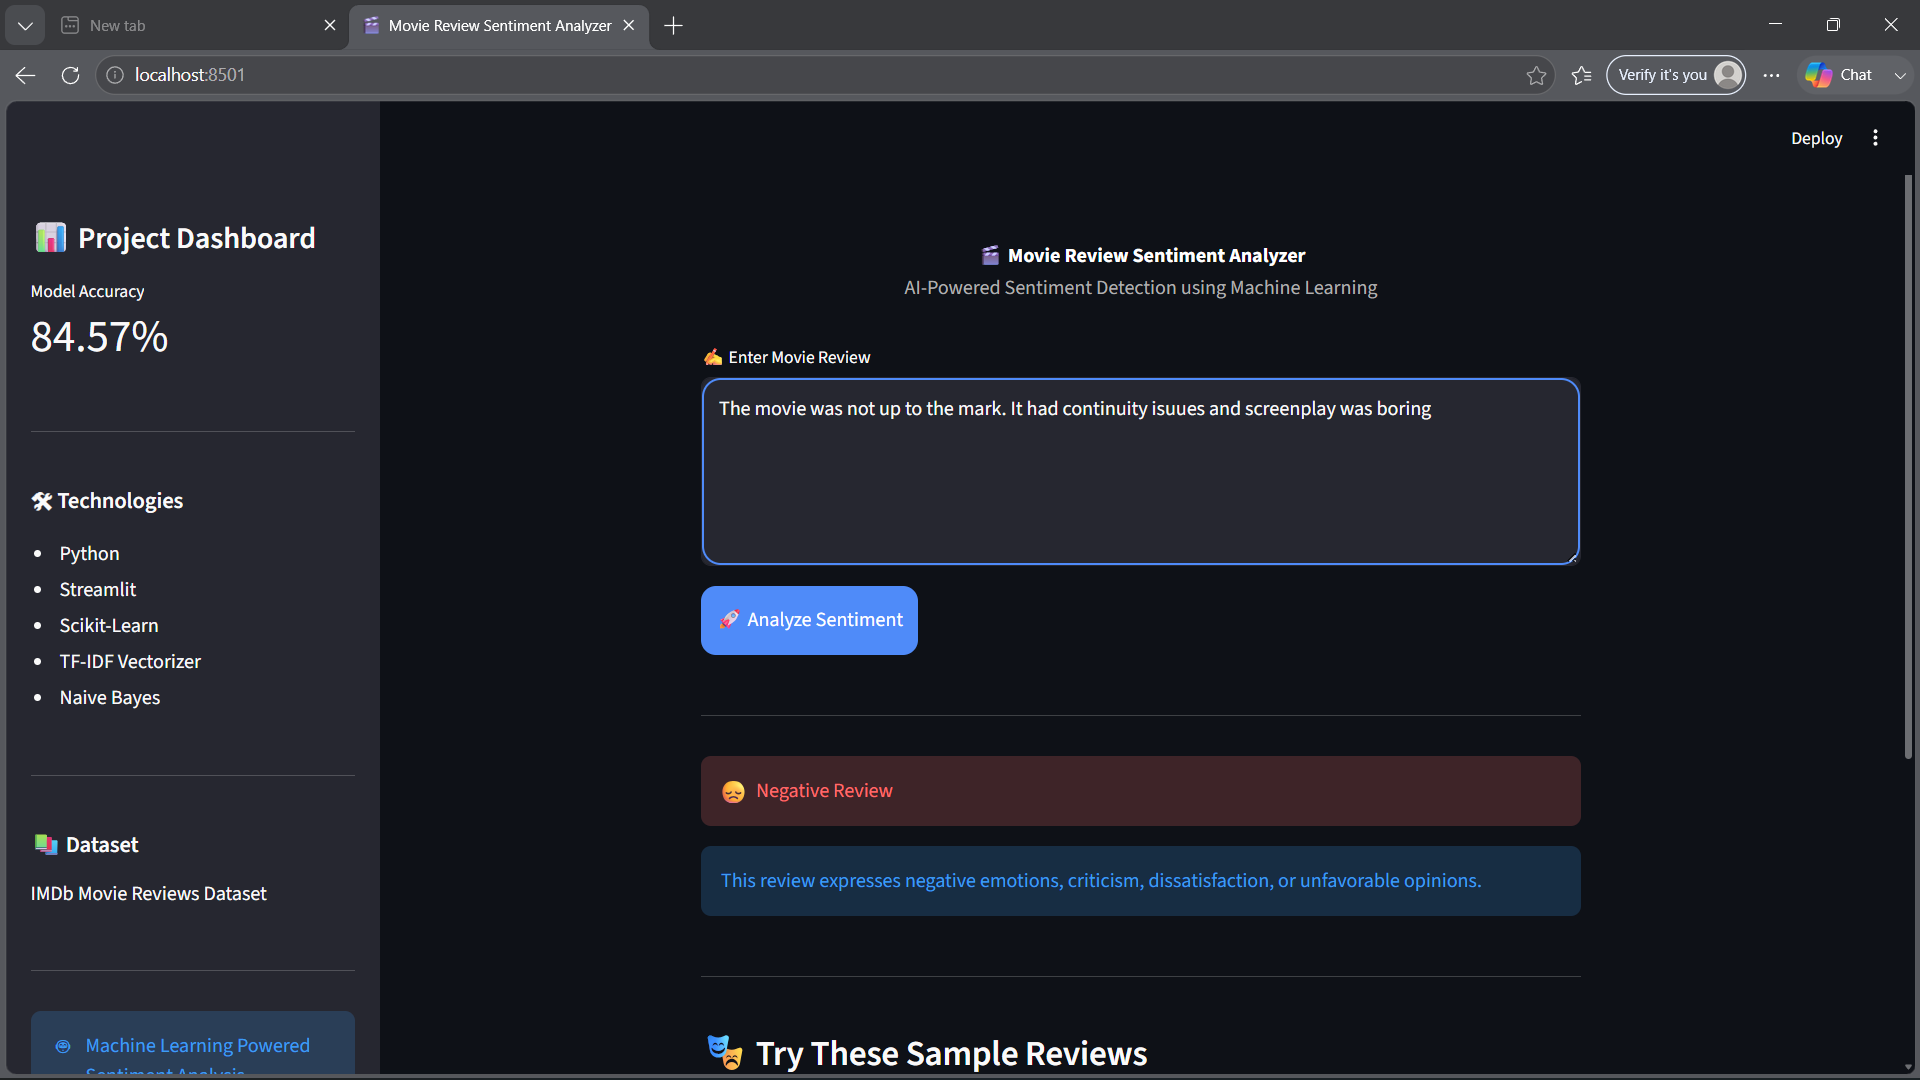
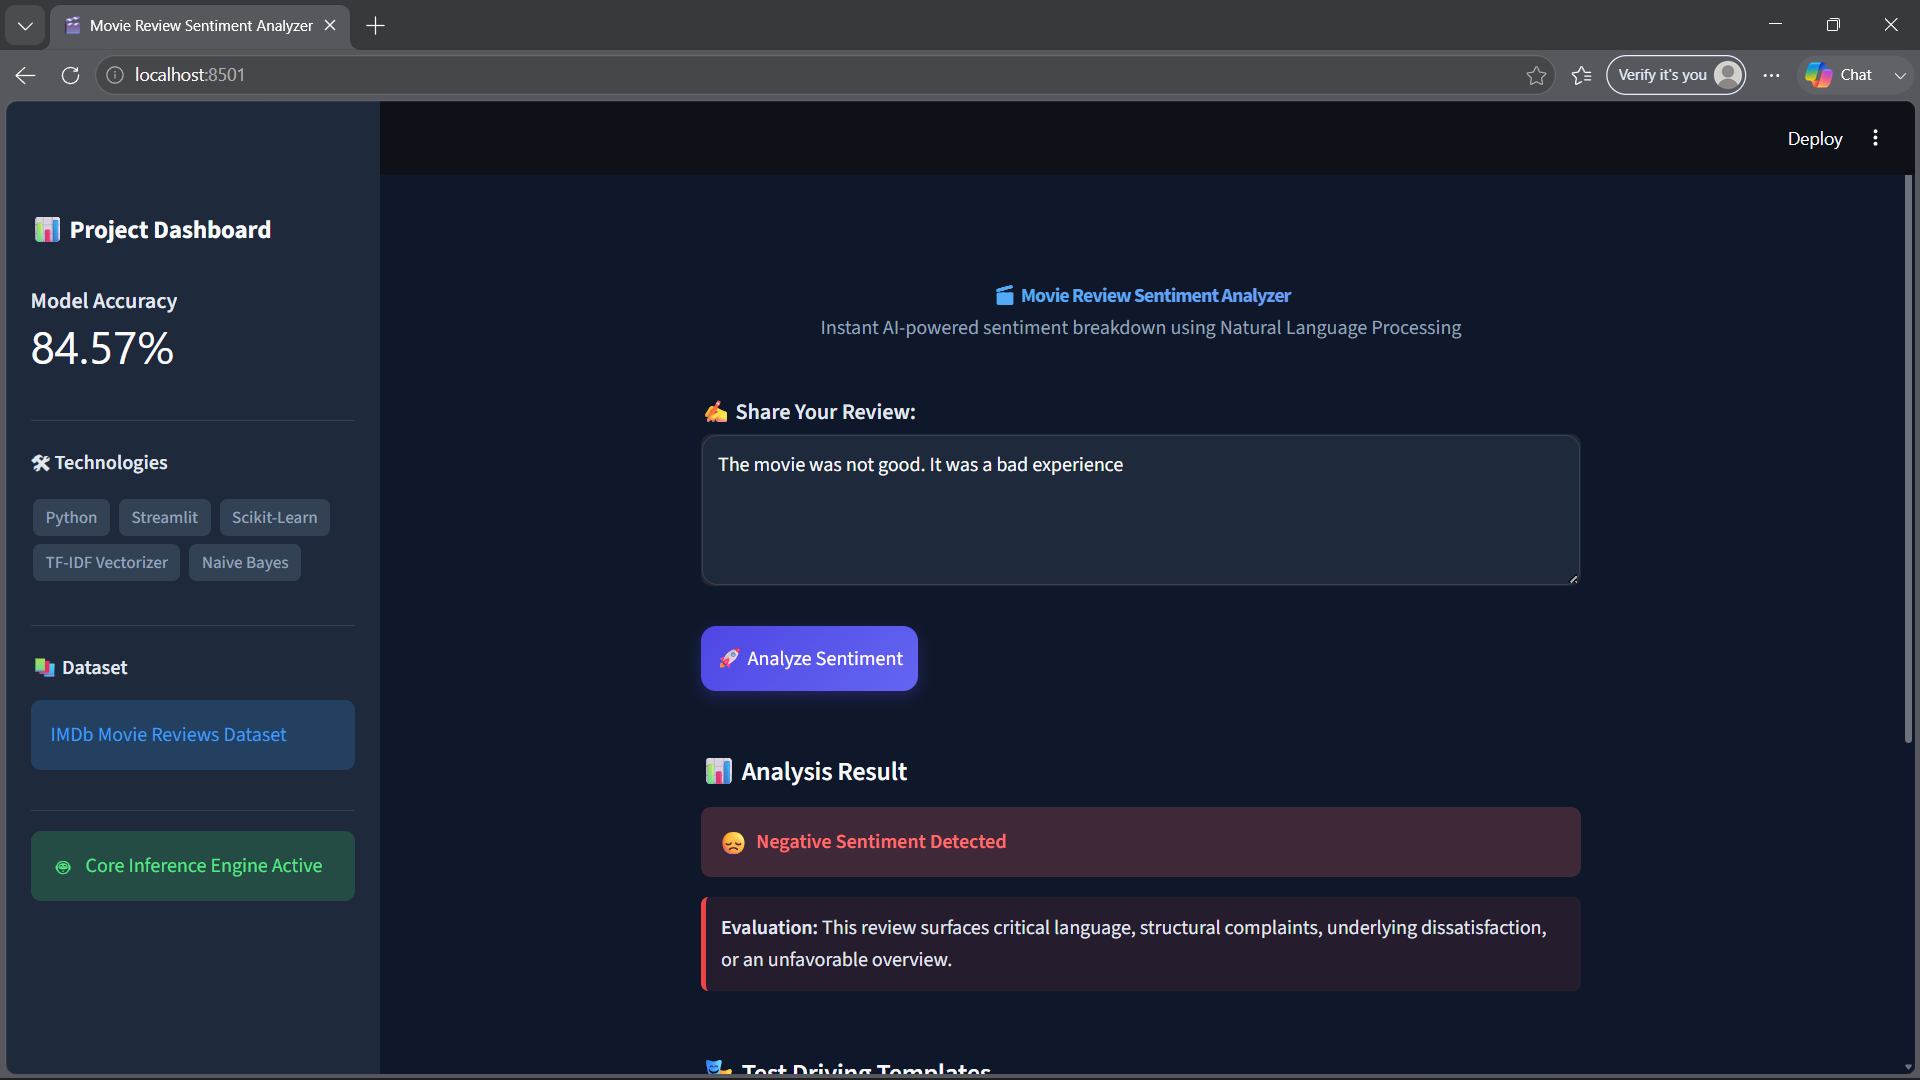
Updated UI

diff --git a/Task2/app.py b/Task2/app.py
@@ -11,58 +11,125 @@ st.set_page_config(
 )
 
 # =========================
-# CUSTOM CSS
+# ADVANCED CUSTOM CSS
 # =========================
 st.markdown("""
 <style>
-
+/* Main App Styling */
 .stApp {
-    background-color: #0E1117;
+    background-color: #0F172A; /* Slate 900 */
+    font-family: 'Inter', system-ui, sans-serif;
 }
 
-.title {
+/* Header Sections */
+.title-container {
     text-align: center;
-    font-size: 3.5rem;
-    font-weight: bold;
-    color: white;
+    padding: 2rem 0 0.5rem 0;
+}
+
+.title-text {
+    font-size: 2.8rem;
+    font-weight: 800;
+    background: linear-gradient(135deg, #38BDF8, #818CF8);
+    -webkit-background-clip: text;
+    -webkit-text-fill-color: transparent;
     margin-bottom: 0px;
+    letter-spacing: -0.05em;
 }
 
-.subtitle {
-    text-align: center;
-    color: #B0B0B0;
+.subtitle-text {
+    color: #94A3B8; /* Slate 400 */
     font-size: 1.1rem;
-    margin-bottom: 30px;
+    font-weight: 400;
+    margin-top: 5px;
+    margin-bottom: 2rem;
+}
+
+/* Form Inputs & Textarea Labels */
+label p {
+    font-size: 1.1rem !important;
+    font-weight: 600 !important;
+    color: #E2E8F0 !important;
 }
 
 .stTextArea textarea {
-    border-radius: 15px !important;
-    border: 2px solid #4F8BF9 !important;
+    border-radius: 12px !important;
+    border: 1px solid #334155 !important;
+    background-color: #1E293B !important;
+    color: #F8FAFC !important;
     font-size: 16px !important;
+    transition: all 0.3s ease;
 }
 
-.stButton > button {
-    width: 100%;
-    height: 55px;
+.stTextArea textarea:focus {
+    border-color: #6366F1 !important;
+    box-shadow: 0 0 0 3px rgba(99, 102, 241, 0.2) !important;
+}
+
+/* Modernized Primary Button */
+div.stButton > button {
+    width: 100% !important;
+    height: 52px;
     border-radius: 12px;
-    background-color: #4F8BF9;
-    color: white;
-    font-size: 18px;
-    font-weight: bold;
-    border: none;
+    background: linear-gradient(135deg, #4F46E5, #6366F1);
+    color: white !important;
+    font-size: 18px !important;
+    font-weight: 600 !important;
+    border: none !important;
+    box-shadow: 0 4px 12px rgba(79, 70, 229, 0.3);
+    transition: all 0.2s ease-in-out;
 }
 
-.stButton > button:hover {
-    background-color: #2E6EF7;
-    color: white;
+div.stButton > button:hover {
+    transform: translateY(-1px);
+    box-shadow: 0 6px 20px rgba(79, 70, 229, 0.4);
+    background: linear-gradient(135deg, #4338CA, #4F46E5);
 }
 
-.footer {
+div.stButton > button:active {
+    transform: translateY(1px);
+}
+
+/* Custom Sample Review Cards */
+.sample-card {
+    background-color: #1E293B;
+    border-left: 5px solid #64748B;
+    padding: 1.25rem;
+    border-radius: 8px;
+    color: #E2E8F0;
+    font-size: 0.95rem;
+    line-height: 1.5;
+    min-height: 90px;
+    display: flex;
+    align-items: center;
+}
+.pos-card { border-left-color: #10B981; background-color: rgba(16, 185, 129, 0.08); }
+.neg-card { border-left-color: #EF4444; background-color: rgba(239, 68, 68, 0.08); }
+
+/* Sidebar styling overrides */
+section[data-testid="stSidebar"] {
+    background-color: #1E293B !important;
+}
+
+.tech-badge {
+    display: inline-block;
+    background-color: #334155;
+    color: #94A3B8;
+    padding: 4px 10px;
+    border-radius: 6px;
+    margin: 3px 2px;
+    font-size: 0.85rem;
+    font-weight: 500;
+}
+
+.footer-text {
     text-align: center;
-    color: gray;
-    margin-top: 20px;
+    color: #64748B;
+    font-size: 0.85rem;
+    margin-top: 3rem;
+    border-top: 1px solid #334155;
+    padding-top: 1.5rem;
 }
-
 </style>
 """, unsafe_allow_html=True)
 
@@ -73,126 +140,115 @@ try:
     model = pickle.load(open("model/sentiment_model.pkl", "rb"))
     vectorizer = pickle.load(open("model/vectorizer.pkl", "rb"))
 except:
-    st.error("❌ Model files not found.")
+    st.error("❌ Model files not found. Ensure paths for your pkl files are correct.")
     st.stop()
 
 # =========================
 # SIDEBAR
 # =========================
 with st.sidebar:
-
-    st.title("📊 Project Dashboard")
-
+    st.markdown("<h2 style='color:#F8FAFC; font-weight:700; margin-bottom:0;'>📊 Project Dashboard</h2>", unsafe_allow_html=True)
+    st.write("")
+    
     st.metric(
         label="Model Accuracy",
         value="84.57%"
     )
-
-    st.markdown("---")
-
-    st.subheader("🛠 Technologies")
-
+    
+    st.markdown("<hr style='margin:1rem 0; border-color:#334155;'>", unsafe_allow_html=True)
+    st.markdown("<h4 style='color:#E2E8F0;'>🛠 Technologies</h4>", unsafe_allow_html=True)
+    
+    # Render modern visual badges instead of standard bullet points
     st.markdown("""
-    - Python
-    - Streamlit
-    - Scikit-Learn
-    - TF-IDF Vectorizer
-    - Naive Bayes
-    """)
-
-    st.markdown("---")
-
-    st.subheader("📚 Dataset")
-
-    st.write("IMDb Movie Reviews Dataset")
-
-    st.markdown("---")
-
-    st.info("🤖 Machine Learning Powered Sentiment Analysis")
+    <span class="tech-badge">Python</span>
+    <span class="tech-badge">Streamlit</span>
+    <span class="tech-badge">Scikit-Learn</span>
+    <span class="tech-badge">TF-IDF Vectorizer</span>
+    <span class="tech-badge">Naive Bayes</span>
+    """, unsafe_allow_html=True)
+    
+    st.markdown("<hr style='margin:1rem 0; border-color:#334155;'>", unsafe_allow_html=True)
+    st.markdown("<h4 style='color:#E2E8F0;'>📚 Dataset</h4>", unsafe_allow_html=True)
+    st.info("IMDb Movie Reviews Dataset")
+    
+    st.markdown("<hr style='margin:1rem 0; border-color:#334155;'>", unsafe_allow_html=True)
+    st.success("🤖 Core Inference Engine Active")
 
 # =========================
 # HEADER
 # =========================
-st.markdown(
-    '<p class="title">🎬 Movie Review Sentiment Analyzer</p>',
-    unsafe_allow_html=True
-)
-
-st.markdown(
-    '<p class="subtitle">AI-Powered Sentiment Detection using Machine Learning</p>',
-    unsafe_allow_html=True
-)
+st.markdown("""
+<div class="title-container">
+    <p class="title-text">🎬 Movie Review Sentiment Analyzer</p>
+    <p class="subtitle-text">Instant AI-powered sentiment breakdown using Natural Language Processing</p>
+</div>
+""", unsafe_allow_html=True)
 
 # =========================
 # INPUT SECTION
 # =========================
 review = st.text_area(
-    "✍️ Enter Movie Review",
-    placeholder="Example: This movie was amazing, the acting was brilliant and the storyline was engaging...",
-    height=180
+    "✍️ Share Your Review:",
+    placeholder="Type or paste a movie review here... e.g., 'The cinematography was striking, but the plot dragged in the second act.'",
+    height=150
 )
 
+st.write("") # Layout spacing spacer
+
 # =========================
-# PREDICTION
+# PREDICTION LOGIC & DISPLAY
 # =========================
 if st.button("🚀 Analyze Sentiment"):
-
     if review.strip() == "":
-        st.warning("⚠️ Please enter a review first.")
-
+        st.warning("⚠️ Please enter some review text before running the analysis.")
     else:
-
         review_vector = vectorizer.transform([review])
-
         prediction = model.predict(review_vector)
-
-        st.markdown("---")
-
+        
+        st.markdown("<h3 style='color:#F8FAFC; font-size:1.3rem; margin-top:1.5rem;'>📊 Analysis Result</h3>", unsafe_allow_html=True)
+        
         if prediction[0] == 1:
-
-            st.success("😊 Positive Review")
-
-            st.info("""
-This review expresses positive emotions, appreciation,
-satisfaction, or favorable opinions.
-""")
-
+            st.success("😊 **Positive Sentiment Detected**")
+            st.markdown("""
+            <div style='background-color:rgba(16, 185, 129, 0.1); border-left:4px solid #10B981; padding:12px; border-radius:6px; color:#E2E8F0;'>
+                <strong>Evaluation:</strong> This review indicates clear appreciation, highlighting positive emotional tone, approval, or content satisfaction.
+            </div>
+            """, unsafe_allow_html=True)
             st.balloons()
-
         else:
-
-            st.error("😞 Negative Review")
-
-            st.info("""
-This review expresses negative emotions, criticism,
-dissatisfaction, or unfavorable opinions.
-""")
+            st.error("😞 **Negative Sentiment Detected**")
+            st.markdown("""
+            <div style='background-color:rgba(239, 68, 68, 0.1); border-left:4px solid #EF4444; padding:12px; border-radius:6px; color:#E2E8F0;'>
+                <strong>Evaluation:</strong> This review surfaces critical language, structural complaints, underlying dissatisfaction, or an unfavorable overview.
+            </div>
+            """, unsafe_allow_html=True)
 
 # =========================
-# SAMPLE REVIEWS
+# SAMPLE REVIEWS (STUNNING TILES)
 # =========================
-st.markdown("---")
-
-st.subheader("🎭 Try These Sample Reviews")
+st.markdown("<br><h3 style='color:#F8FAFC; font-size:1.3rem; margin-bottom:1rem;'>🎭 Test Driving Templates</h3>", unsafe_allow_html=True)
 
 col1, col2 = st.columns(2)
 
 with col1:
-    st.success(
-        "This movie was fantastic. The acting and story were amazing."
-    )
+    st.markdown("""
+    <div class="sample-card pos-card">
+        🟢 "This movie was fantastic. The casting choices and narrative direction were absolute masterpieces."
+    </div>
+    """, unsafe_allow_html=True)
 
 with col2:
-    st.error(
-        "Worst movie ever. Completely boring and a waste of time."
-    )
+    st.markdown("""
+    <div class="sample-card neg-card">
+        🔴 "Worst cinematic experience this year. Completely boring pacing and an absolute waste of time."
+    </div>
+    """, unsafe_allow_html=True)
 
 # =========================
 # FOOTER
 # =========================
-st.markdown("---")
-
-st.markdown(
-    '<p class="footer">Built using Streamlit • Scikit-Learn • IMDb Dataset</p>',
-    unsafe_allow_html=True
-)
+st.markdown("""
+<div class="footer-text">
+    Built with ❤️ using Streamlit • Scikit-Learn Pipeline • IMDb Evaluation Set
+</div>
+""", unsafe_allow_html=True)